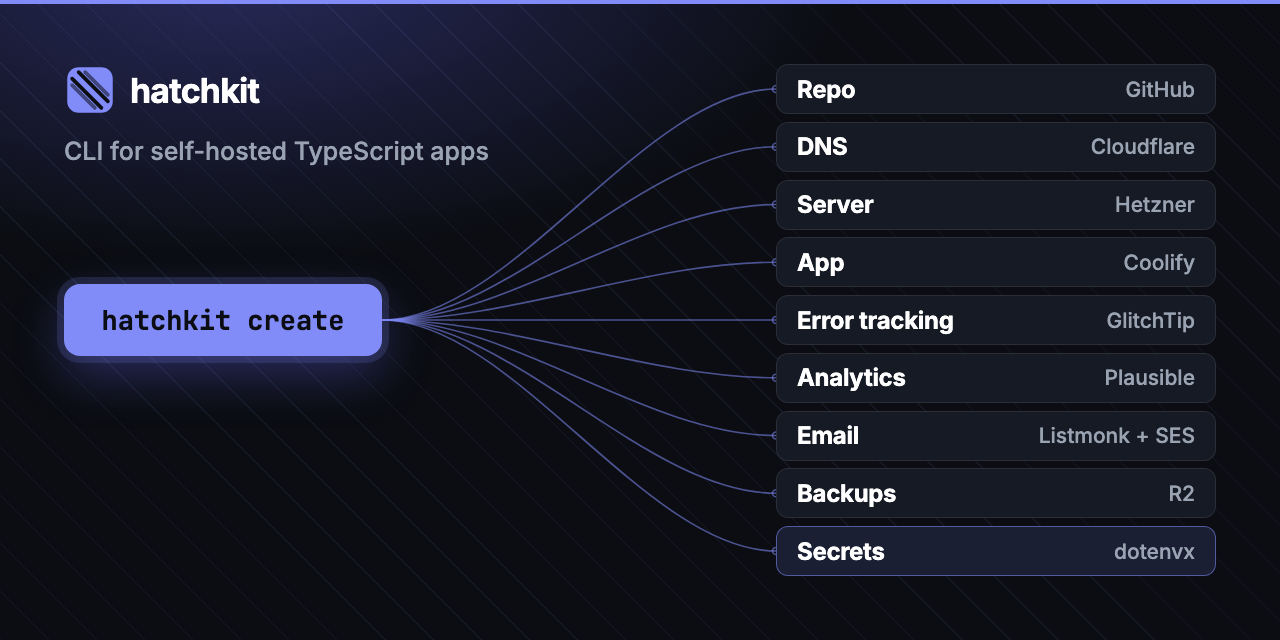
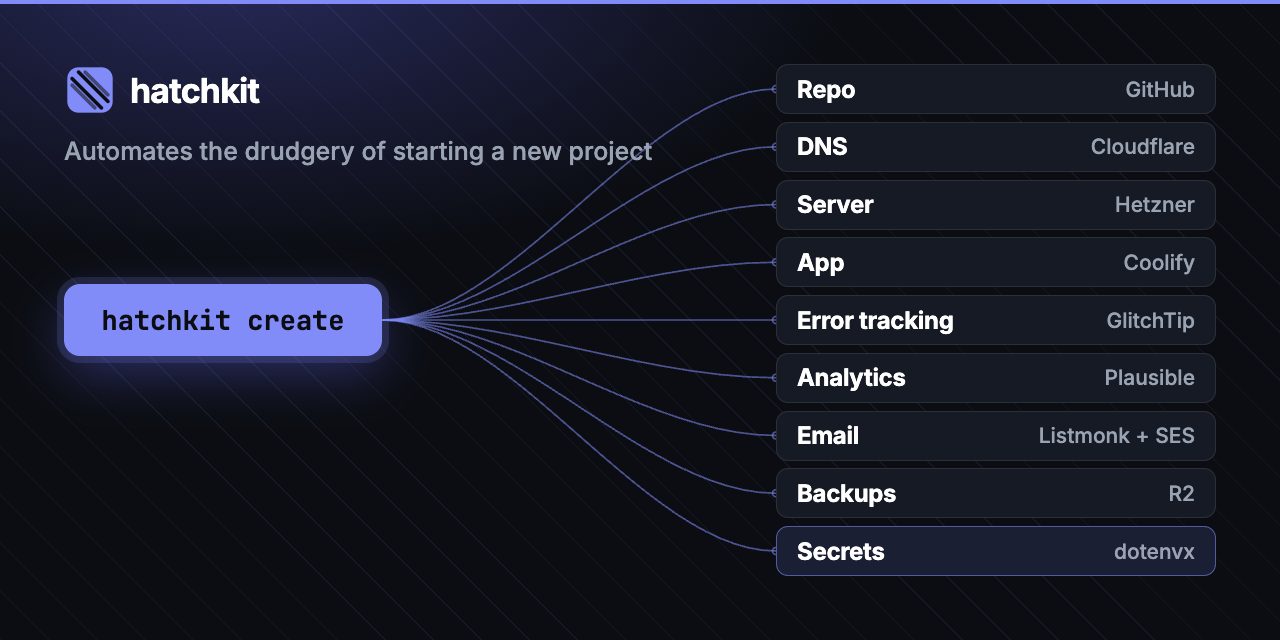
Use the chosen line on the social preview: automates the drudgery of starting a new project

Changed region(s): [[0.0312, 0.2188, 0.5312, 0.25]]

diff --git a/docs/marketing/social-preview/template.html b/docs/marketing/social-preview/template.html
@@ -261,7 +261,7 @@
     ["Backups", "R2"],
     ["Secrets", "dotenvx", "key"],
   ];
-  const A3_LINE = "CLI for self-hosted TypeScript apps";
+  const A3_LINE = "Automates the drudgery of starting a new project";
   function variantA3(withLine) {
     const pitch = 57.75, top = 64, from = [382, 320], toX = 776;
     const nodes = A3_NODES.map(([what, who, cls], i) =>

diff --git a/docs/marketing/README.md b/docs/marketing/README.md
@@ -18,7 +18,7 @@ Brand: the docs site's palettes (dark: near-black `#0b0d12` with indigo `#818cf8
 | [`social-preview/social-preview-c.png`](social-preview/social-preview-c.png) | Social preview candidate C, dark. "Your secrets, committed as ciphertext." beside `screenshots/create-secrets.png`. | 1280×640 | `pnpm marketing:social` | 2026-11-06 |
 | [`social-preview/social-preview-d.png`](social-preview/social-preview-d.png) | Social preview candidate D, light. Six secrets, what makes each one and where hatchkit delivers it. | 1280×640 | `pnpm marketing:social` | 2026-11-06 |
 | [`social-preview/social-preview-a3-1.png`](social-preview/social-preview-a3-1.png) | Round 3 candidate A3-1, dark. Card A with the text cut to labels: the wordmark, the `hatchkit create` pill and nine nodes, each a thing and its provider (Repo/GitHub, DNS/Cloudflare, Server/Hetzner, App/Coolify, Error tracking/GlitchTip, Analytics/Plausible, Email/Listmonk + SES, Backups/R2, Secrets/dotenvx). | 1280×640 | `pnpm marketing:social` | 2026-11-07 |
-| [`social-preview/social-preview-a3-2.png`](social-preview/social-preview-a3-2.png) | Round 3 candidate A3-2, dark. A3-1 plus one line under the wordmark: "CLI for self-hosted TypeScript apps". | 1280×640 | `pnpm marketing:social` | 2026-11-07 |
+| [`social-preview/social-preview-a3-2.png`](social-preview/social-preview-a3-2.png) | Round 3 candidate A3-2, dark. A3-1 plus one line under the wordmark: "Automates the drudgery of starting a new project". | 1280×640 | `pnpm marketing:social` | 2026-11-07 |
 | [`social-preview/social-preview-a3-3.png`](social-preview/social-preview-a3-3.png) | Round 3 candidate A3-3, light. A3-2 in the light palette. | 1280×640 | `pnpm marketing:social` | 2026-11-07 |
 | [`social-preview/template.html`](social-preview/template.html) | Source for every card: round 2 `?v=a`, `b`, `c`, `d`; round 3 `?v=a3-1`, `a3-2`, `a3-3`. | 1280×640 | hand-written | 2026-11-07 |
 
@@ -61,6 +61,8 @@ Every name on the cards is a command, provider or env key in this repo. The plac
 | Each Coolify app gets its own 32-byte deploy secret in GitHub Actions, and no Coolify API token goes to the repo | `cli/src/deploy/coolify-deploy-hook.ts`, `cli/src/deploy/gh-actions-secrets.ts` |
 | The DSN reaches Coolify `SENTRY_DSN` before the first push | `cli/src/provision/glitchtip-delivery.ts` |
 | `secrets rotate` replaces GlitchTip DSNs, R2 tokens and local app secrets and pushes to Coolify and GitHub | `cli/src/secrets/registry.ts`, `docs/content/docs/secrets-rotation.mdx` |
-| Round 3's line "CLI for self-hosted TypeScript apps": `create` scaffolds the TypeScript monorepo in `starter/` and deploys it to Coolify on a server you own | `starter/`, `cli/src/index.ts` (create steps 1 and 6) |
+| The live card's line "Automates the drudgery of starting a new project" (chosen 2026-11-07): `create` runs the repo, DNS, server, app, email, analytics, error-tracking, backup and secrets setup and scaffolds the TypeScript monorepo in `starter/` and deploys it to Coolify on a server you own | `starter/`, `cli/src/index.ts` (create steps 1 and 6) |
 
 What the cards leave out: provider tokens are entered once, at `hatchkit setup`, and a project with the Stripe feature asks for its Stripe keys during `create`. A provider that is not configured becomes a deferred step with its follow-up command.
+
+The live GitHub social preview is `social-preview-a3-2.png` (uploaded 2026-11-07).
